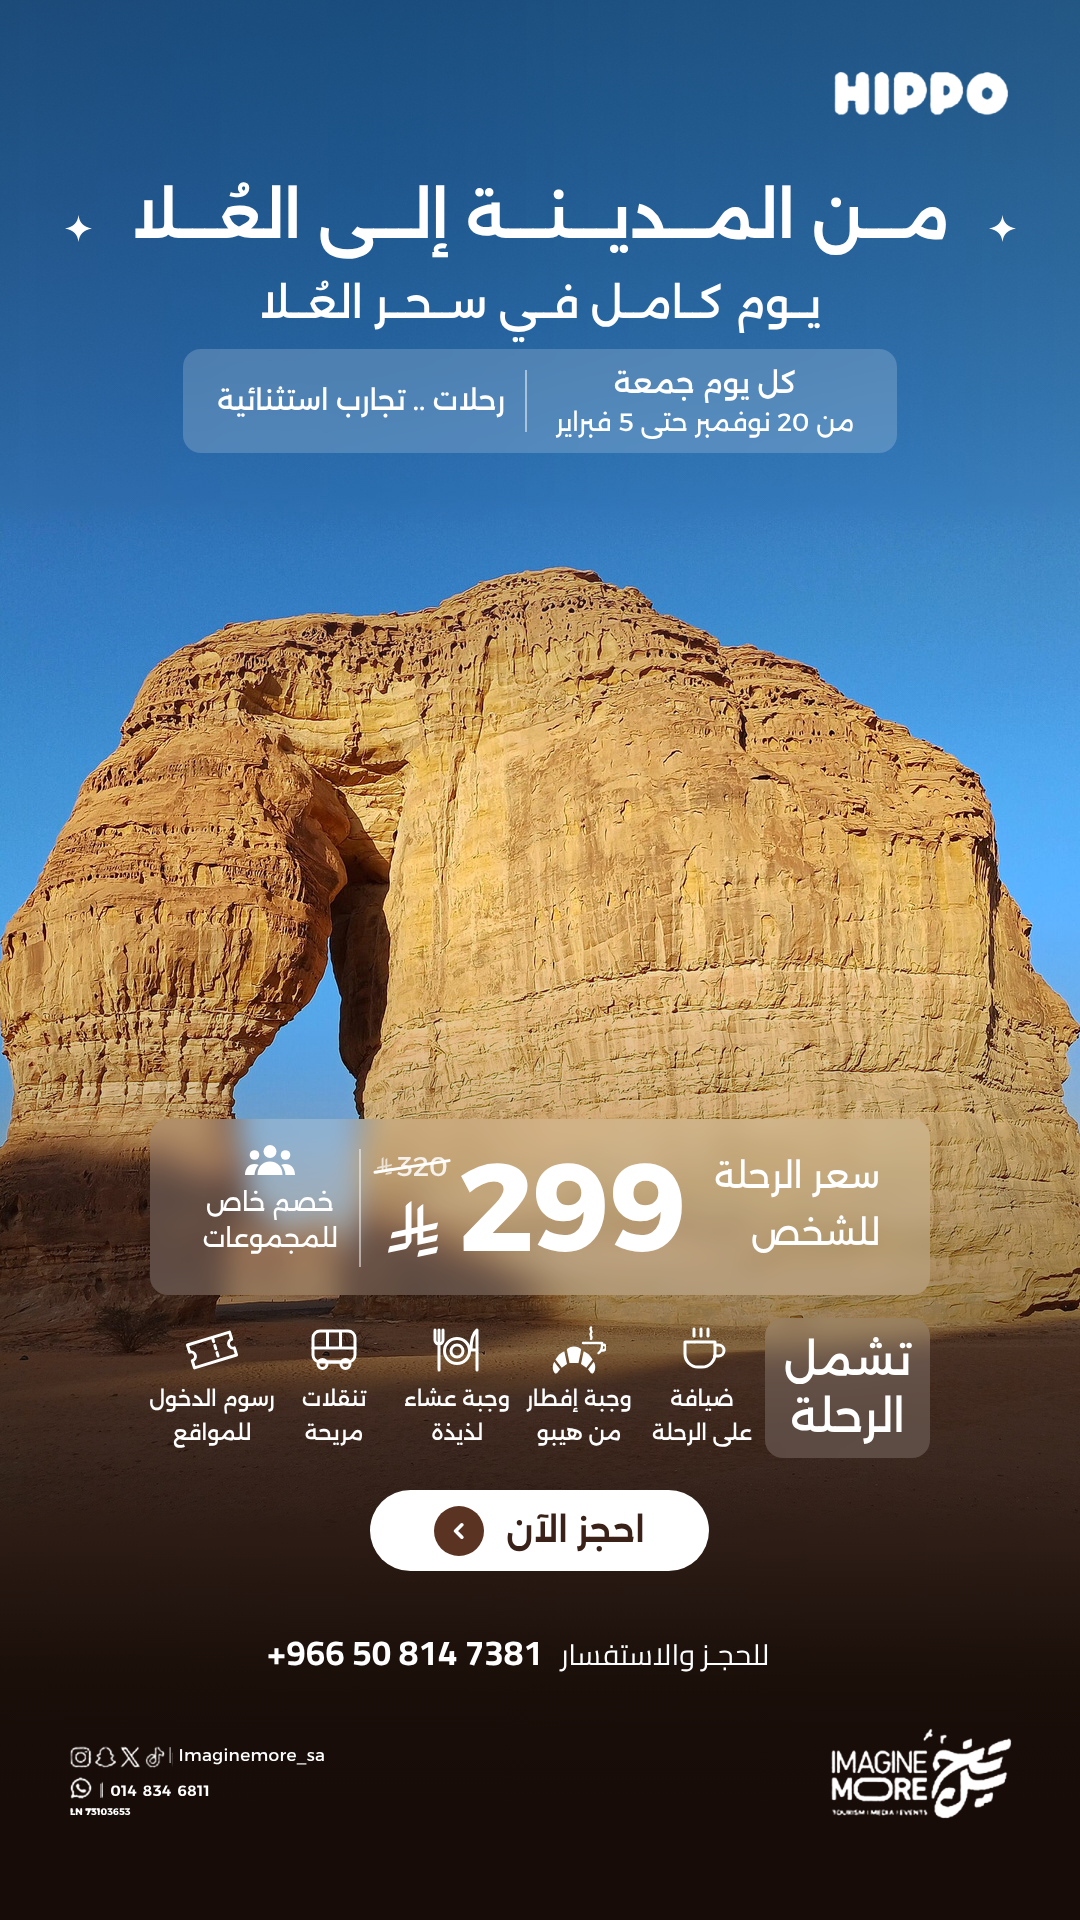
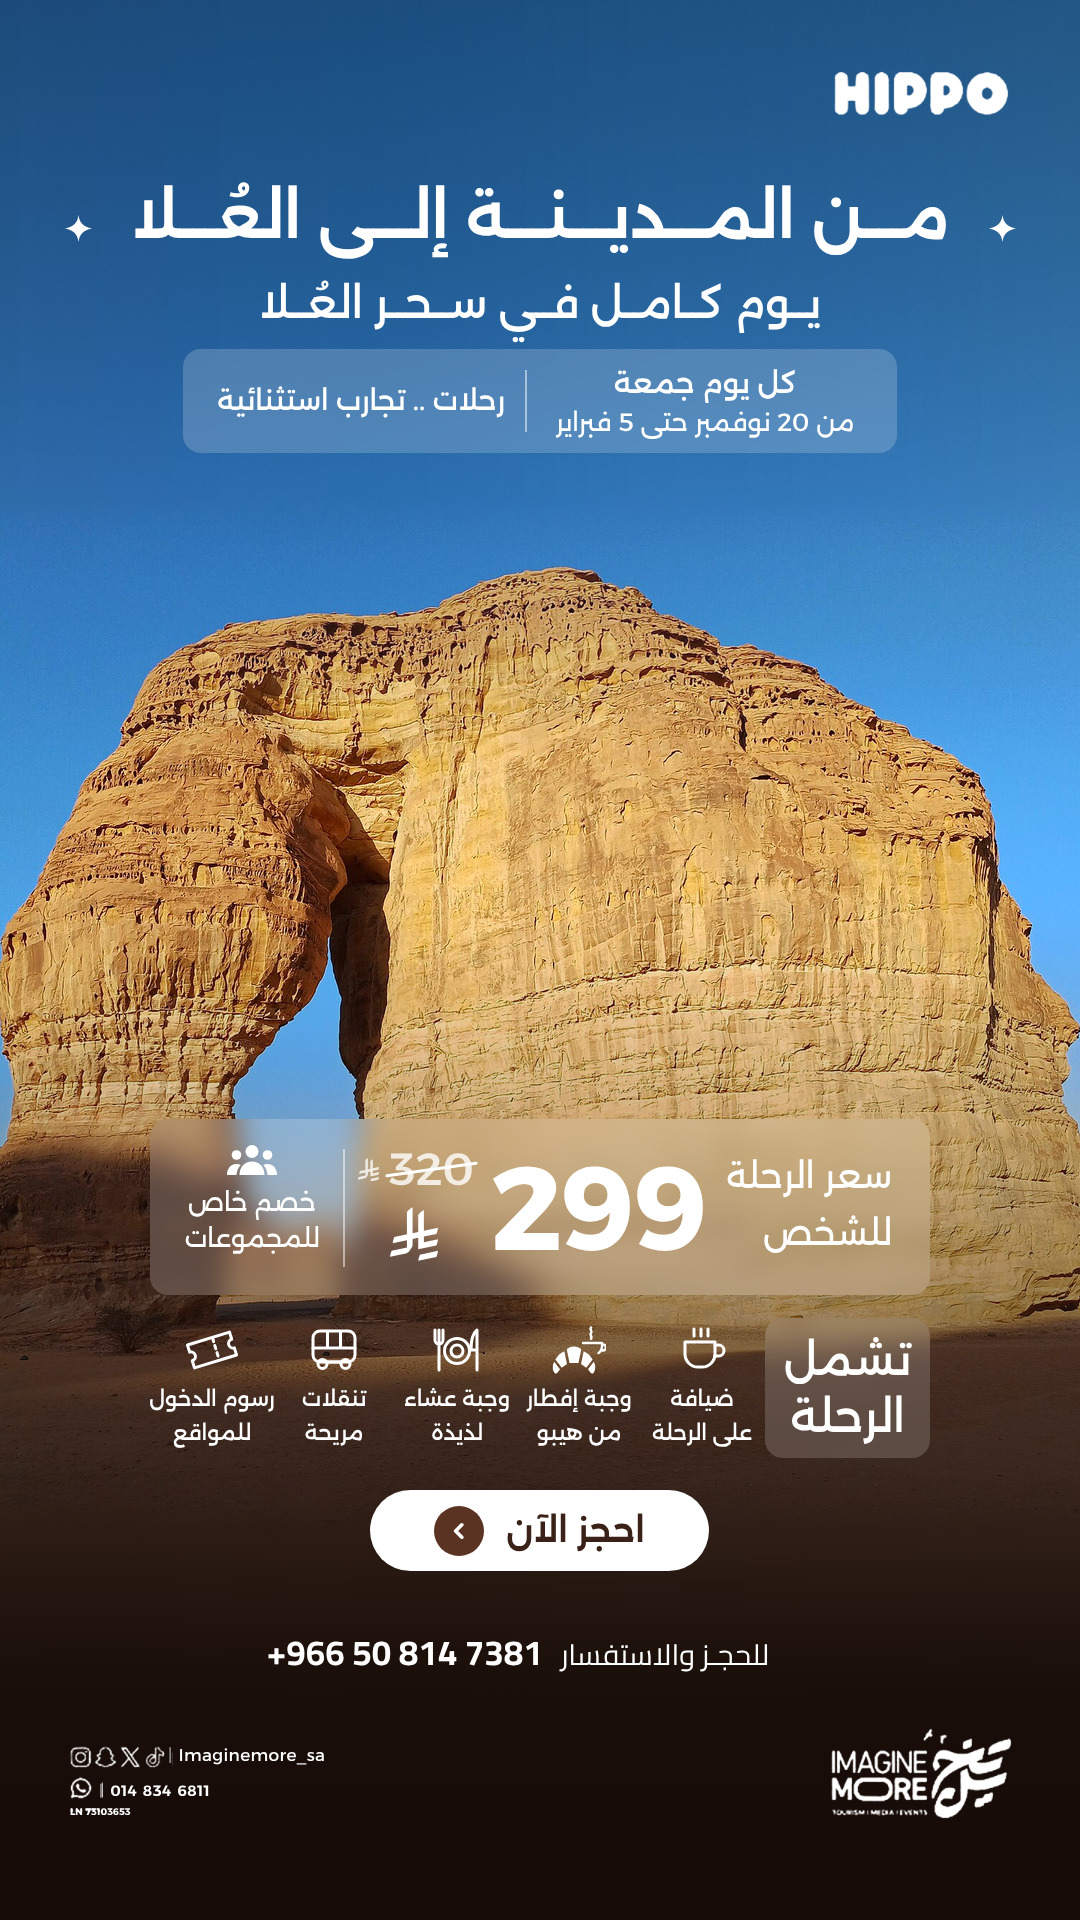
Imagine More: enlarge struck-through old price on the three story options
Claude-Session: https://claude.ai/code/session_01J1taWenrpGzurucxkZpGcC

Changed region(s): [[0.1833, 0.5938, 0.825, 0.6562]]

diff --git a/clients/imagine-more/05-designs/alula-trip-story/story.css b/clients/imagine-more/05-designs/alula-trip-story/story.css
@@ -42,14 +42,15 @@ body{font-family:"Alexandria",sans-serif;color:#fff;-webkit-font-smoothing:antia
 
 /* price panel */
 .price{left:150px;top:1119px;width:780px;height:176px}
-.price .label{right:50px;top:28px;width:180px;text-align:right;font-weight:400;font-size:35px;line-height:1.63;white-space:nowrap}
-.price .now{left:309px;top:14px;font-weight:700;font-size:124px;line-height:1.2;letter-spacing:-1px}
-.price .sar{left:238px;top:82px;width:50px;height:56px}
-.price .was{left:226px;top:27px;height:40px;display:flex;align-items:center;gap:5px;direction:ltr;font-weight:400;font-size:27px;line-height:1;color:rgba(255,255,255,.85)}
-.price .was svg{width:16px;height:18px;opacity:.82}
-.price .was::after{content:"";position:absolute;left:-3px;right:-3px;top:50%;height:2.5px;margin-top:-1px;background:#fff;border-radius:2px;transform:rotate(-9deg)}
-.price .rule{left:209px;top:30px;width:2px;height:118px;background:rgba(255,255,255,.5)}
-.price .group{left:40px;top:26px;width:160px;text-align:center;font-weight:400;font-size:25.5px;line-height:1.42;white-space:nowrap}
+.price .label{right:38px;top:28px;width:180px;text-align:right;font-weight:400;font-size:35px;line-height:1.63;white-space:nowrap}
+.price .now{left:341px;top:19px;font-weight:700;font-size:118px;line-height:1.2;letter-spacing:-1px}
+.price .sar{left:240px;top:88px;width:48px;height:54px}
+.price .was{left:208px;top:24px;height:50px;display:flex;align-items:center;gap:10px;direction:ltr;font-weight:500;font-size:45px;line-height:1;color:rgba(255,255,255,.8)}
+.price .was svg{width:21px;height:23.5px;flex:none;margin-top:3px}
+.price .was span{position:relative;display:block}
+.price .was span::after{content:"";position:absolute;left:-4px;right:-4px;top:50%;height:3px;margin-top:0;background:#fff;border-radius:2px;transform:rotate(-8deg)}
+.price .rule{left:193px;top:30px;width:2px;height:118px;background:rgba(255,255,255,.5)}
+.price .group{left:22px;top:26px;width:160px;text-align:center;font-weight:400;font-size:25.5px;line-height:1.42;white-space:nowrap}
 .price .group svg{display:block;margin:0 auto 9px;width:50px;height:30px}
 
 /* includes */

diff --git a/clients/imagine-more/05-designs/alula-trip-story/notes.md b/clients/imagine-more/05-designs/alula-trip-story/notes.md
@@ -13,7 +13,7 @@ Shared source: `story.css`, `assets/` (fonts, lifted logos and footer icons, pho
 **Changes from the reference (only these):**
 1. Background photo.
 2. Date chip now reads `كل يوم جمعة` / `من 20 نوفمبر حتى 5 فبراير` on two lines; the chip row is 104 px tall instead of 82 px and 24 px wider.
-3. Old price `320` with the riyal sign, struck through, above the riyal sign beside `299`. The `299` and the price label moved about 10 px to the right to make room.
+3. Old price `320` (45 px, medium, white at 80%) with a small riyal sign to its left, one 3 px strike line across the digits only, placed above the main riyal sign beside `299`. To make room, `299` is 118 px instead of 124 px (about 5% smaller) and sits 32 px further right, the price label moved 20 px right, and the divider and group note moved 16–18 px left.
 
 **Copy used:** exactly as in `01-brief/brief.md`. One point differs from the reference pixels: the reference spells `للحجـز والأستفسار` (with a hamza); the brief gives the correct `والاستفسار`, which is what is set here.
 
